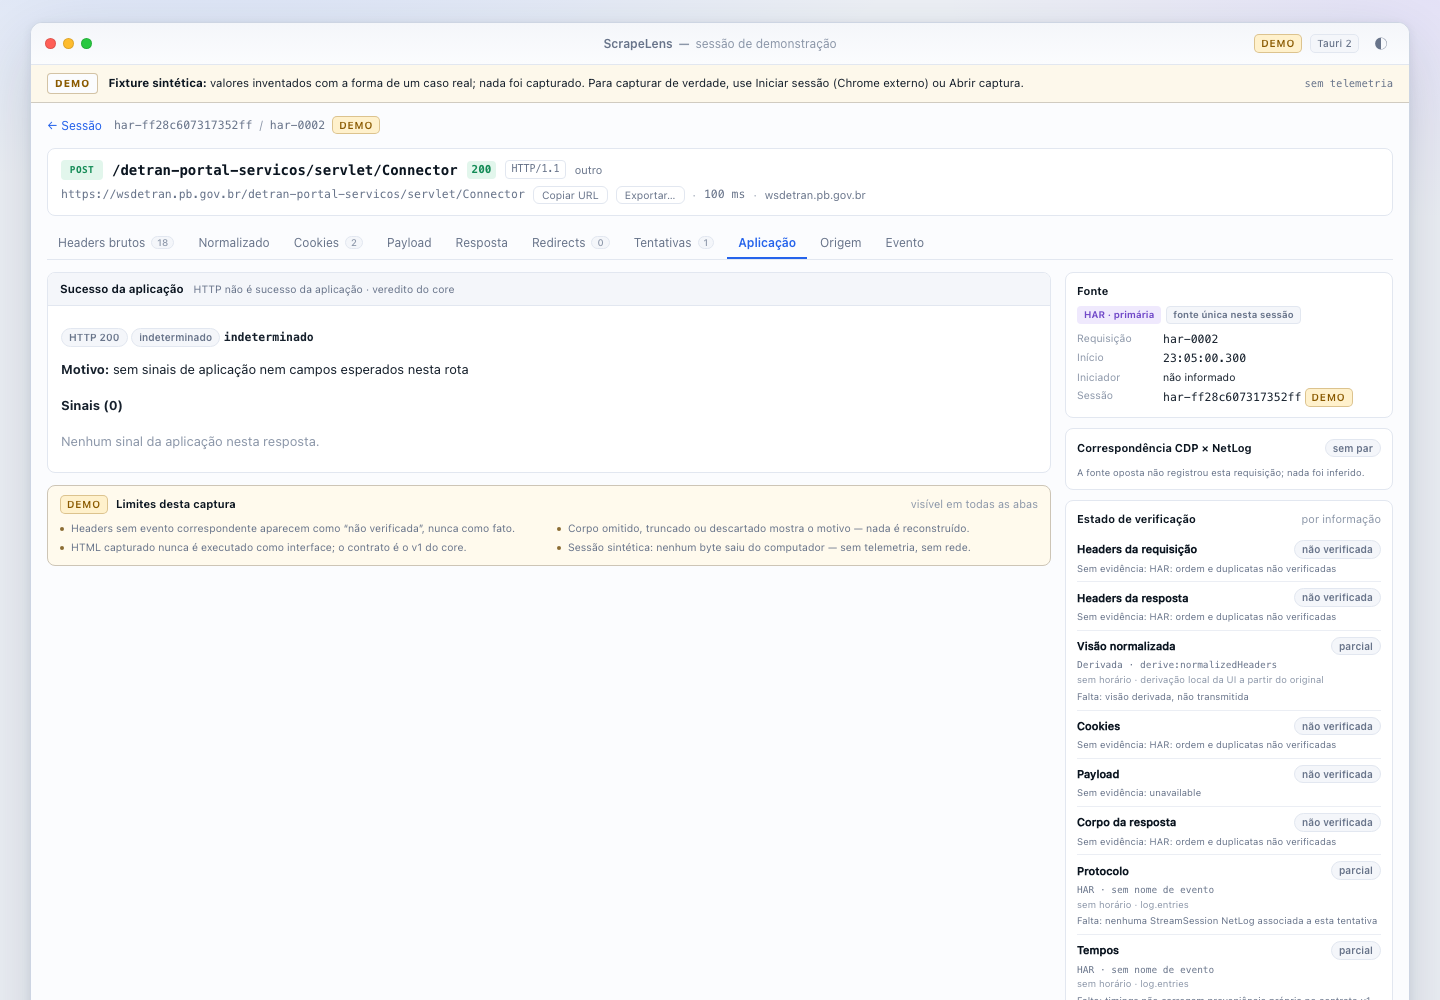
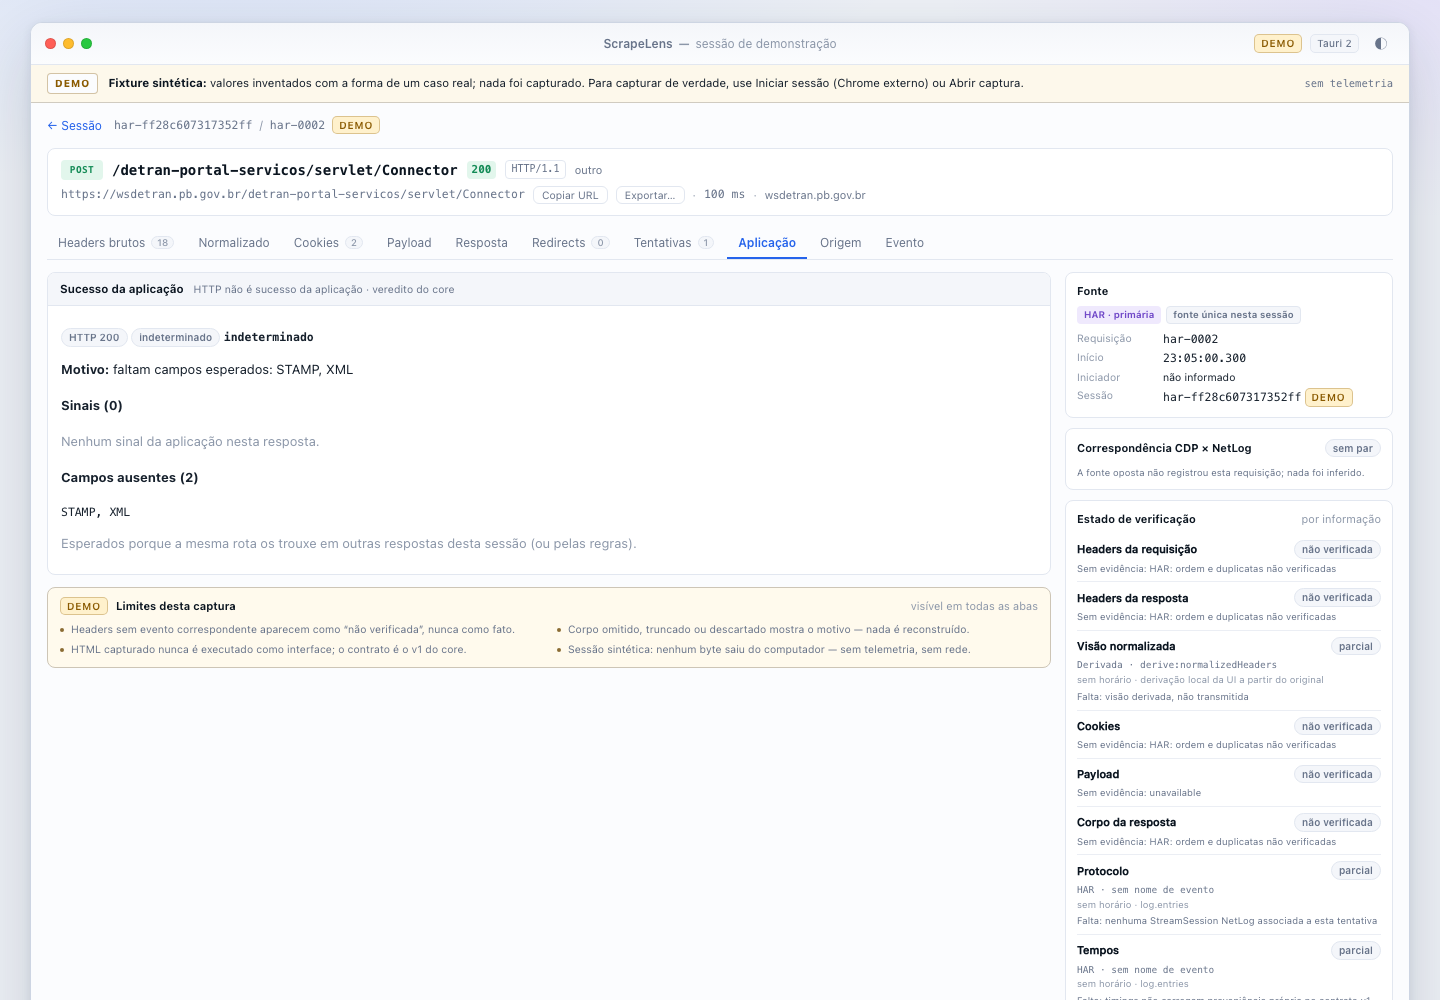
feat(app): add neutral not-evaluated state; screenshot of indeterminate with missing fields

diff --git a/app/src/assess.tsx b/app/src/assess.tsx
@@ -3,7 +3,8 @@
 import { useEffect, useMemo, useState } from "react";
 import { bridge } from "./bridge";
 
-export type VerdictKind = "app-ok" | "app-error" | "blocked" | "indeterminado";
+/** `not-assessed` chega com o core novo; opcional até lá. */
+export type VerdictKind = "app-ok" | "app-error" | "blocked" | "indeterminado" | "not-assessed";
 
 export interface AppSignal {
   signal: string;
@@ -38,12 +39,14 @@ const SHORT: Record<VerdictKind, string> = {
   "app-error": "app-error",
   blocked: "blocked?",
   indeterminado: "indeterminado",
+  "not-assessed": "não-avaliado",
 };
 const CLASS: Record<VerdictKind, string> = {
   "app-ok": "v-ok",
   "app-error": "v-none",
   blocked: "v-none dashed",
   indeterminado: "v-partial",
+  "not-assessed": "tag dim",
 };
 
 /** Falha da aplicação = app-error ou blocked? (HTTP pode ter sido 200). */
@@ -53,6 +56,13 @@ export const isAppFailure = (o: ResponseOutcome | undefined) =>
 export function VerdictChip({ outcome }: { outcome: ResponseOutcome | undefined }) {
   if (!outcome) return <span className="dim">—</span>;
   const kind = outcome.verdictKind;
+  if (kind === "not-assessed") {
+    return (
+      <span className="dim" title={outcome.verdict}>
+        {SHORT[kind]}
+      </span>
+    );
+  }
   return (
     <span className={`chip ${CLASS[kind] ?? "tag"}`} title={outcome.verdict}>
       {SHORT[kind] ?? outcome.verdict}

diff --git a/app/scripts/adapter-minimal.test.ts b/app/scripts/adapter-minimal.test.ts
@@ -182,4 +182,5 @@ assert.equal(isAppFailure(oc("blocked")), true); // 200 bloqueado fica visível 
 assert.equal(isAppFailure(oc("indeterminado")), false);
 assert.equal(isAppFailure(oc("app-ok")), false);
 assert.equal(isAppFailure(undefined), false);
+assert.equal(isAppFailure(oc("not-assessed")), false);
 console.log("adapter-minimal: ok");

diff --git a/src-tauri/EMPACOTAMENTO.md b/src-tauri/EMPACOTAMENTO.md
@@ -47,14 +47,14 @@ Ferramentas usadas: rustc 1.98.1, Node 26.8.1, macOS 26.5.2 (arm64).
 | Executável | `ScrapeLens.app/Contents/MacOS/scrapelens` |
 | Arquitetura | `Mach-O 64-bit executable arm64`, thin (sem universal binary) |
 | Tamanho do bundle | 15.772 KiB (~15,4 MiB, `du -sk`) |
-| Tamanho do executável | 15.393.696 bytes |
[1 lines of base64/hex data omitted]
+| Tamanho do executável | 15.374.672 bytes |
[1 lines of base64/hex data omitted]
 | Identificador | `app.scrapelens.desktop` |
 | Assinatura | ad-hoc (`flags=0x2(adhoc)`, `TeamIdentifier=not set`) |
 | `codesign --verify --deep --strict` | exit 0 (valid on disk, satisfaz o Designated Requirement) |
 | `spctl -a` | rejeitado — esperado: sem Developer ID e sem notarização |
 
-Rebuild da onda 7b (comando `assess_session`, coluna/filtro/aba "Aplicação", veredito na cadeia e no compare; hash anterior `4f7ca2aa…`). Antes: rebuild com frames auxiliares e iniciador (hash anterior `1697321d…`). Antes: rebuild da onda 6b (controle HTML, contexto estático, páginas de contexto, avisos de HAR sem cookies, compare por rodadas com opções, sanitização de negócio; hash anterior `f777988f…`). Antes: rebuild da dica de reordenação ligada a `SessionComparison.reordered` (hash anterior `21824159…`). Antes: rebuild do ajuste de layout do compare (chips quebram linha; dica de reordenação opcional); hash anterior `ac7213b2…`. Antes: rebuild com os rótulos do core (possível origem) e fixtures regeneradas; hash anterior `31ec27c3…`. Antes: rebuild das correções da revisão da rodada 5 (possível origem, confiança por passo, comparação paginada, caminhos canônicos, partsCounts; hash anterior `c1783a57…`). Antes: rebuild da onda 5b (aba Origem, cadeia de priming, comparação A × B, exportação com origens anotadas; hash anterior `2f08150d…`). Antes: rebuild do acabamento da rodada 4 (legenda de realce só quando há tracejado, nota discreta para `chrome-decoded`, aviso para `charset:*`/`lossy-postData`); hash anterior `0e2754f4…`. Antes: rebuild com busca preguiçosa do core (LazySession + search_lazy), realce sólido/tracejado e texto da fixture sintética; hash anterior `f9c0acec…`. Antes: rebuild das correções da revisão 4b (rótulos de origem, realce pelo intervalo do core, cache do bundle de busca, recusa de symlink em anexos, `transformed`; hash anterior `56ee754b…`). Antes: rebuild da onda 4b (busca no payload e painel de corpos: commands `search_session` e `read_body`, UI; 28+2 ignorados em src-tauri, 16/16 em tests/exportacao, `npm run test:adapter` ok; evidência em `evidence/busca-corpos/`). Hash anterior `9c04b98b…` substituído. Histórico: rebuild de 0d4dbab (`fix(app)`: adapter tolera campos omitidos que o core aceita via serde default; teste `npm run test:adapter` com a fixture mínima; 15+1 ignorado Tauri, 16/16 regressões tests/exportacao). Hash anterior `5934556c…` (16015a1) substituído. Antes: rebuild com validação de todos os ancestrais do destino (F1/F2): o hash acima é deste build. O SHA-256 é do executável **após** o re-sign ad-hoc. Um `tauri build` limpo
+Rebuild do ajuste 7b (verdict `not-assessed` neutro; hash anterior `0f6d04bf…`). Antes: rebuild da onda 7b (comando `assess_session`, coluna/filtro/aba "Aplicação", veredito na cadeia e no compare; hash anterior `4f7ca2aa…`). Antes: rebuild com frames auxiliares e iniciador (hash anterior `1697321d…`). Antes: rebuild da onda 6b (controle HTML, contexto estático, páginas de contexto, avisos de HAR sem cookies, compare por rodadas com opções, sanitização de negócio; hash anterior `f777988f…`). Antes: rebuild da dica de reordenação ligada a `SessionComparison.reordered` (hash anterior `21824159…`). Antes: rebuild do ajuste de layout do compare (chips quebram linha; dica de reordenação opcional); hash anterior `ac7213b2…`. Antes: rebuild com os rótulos do core (possível origem) e fixtures regeneradas; hash anterior `31ec27c3…`. Antes: rebuild das correções da revisão da rodada 5 (possível origem, confiança por passo, comparação paginada, caminhos canônicos, partsCounts; hash anterior `c1783a57…`). Antes: rebuild da onda 5b (aba Origem, cadeia de priming, comparação A × B, exportação com origens anotadas; hash anterior `2f08150d…`). Antes: rebuild do acabamento da rodada 4 (legenda de realce só quando há tracejado, nota discreta para `chrome-decoded`, aviso para `charset:*`/`lossy-postData`); hash anterior `0e2754f4…`. Antes: rebuild com busca preguiçosa do core (LazySession + search_lazy), realce sólido/tracejado e texto da fixture sintética; hash anterior `f9c0acec…`. Antes: rebuild das correções da revisão 4b (rótulos de origem, realce pelo intervalo do core, cache do bundle de busca, recusa de symlink em anexos, `transformed`; hash anterior `56ee754b…`). Antes: rebuild da onda 4b (busca no payload e painel de corpos: commands `search_session` e `read_body`, UI; 28+2 ignorados em src-tauri, 16/16 em tests/exportacao, `npm run test:adapter` ok; evidência em `evidence/busca-corpos/`). Hash anterior `9c04b98b…` substituído. Histórico: rebuild de 0d4dbab (`fix(app)`: adapter tolera campos omitidos que o core aceita via serde default; teste `npm run test:adapter` com a fixture mínima; 15+1 ignorado Tauri, 16/16 regressões tests/exportacao). Hash anterior `5934556c…` (16015a1) substituído. Antes: rebuild com validação de todos os ancestrais do destino (F1/F2): o hash acima é deste build. O SHA-256 é do executável **após** o re-sign ad-hoc. Um `tauri build` limpo
 produz um binário byte-diferente (o linker assina antes do bundle), por isso o
 hash identifica este artefato, não a saída de qualquer build. O build anterior
 desta mesma rodada, sem o ajuste `3a3c676`, tinha
